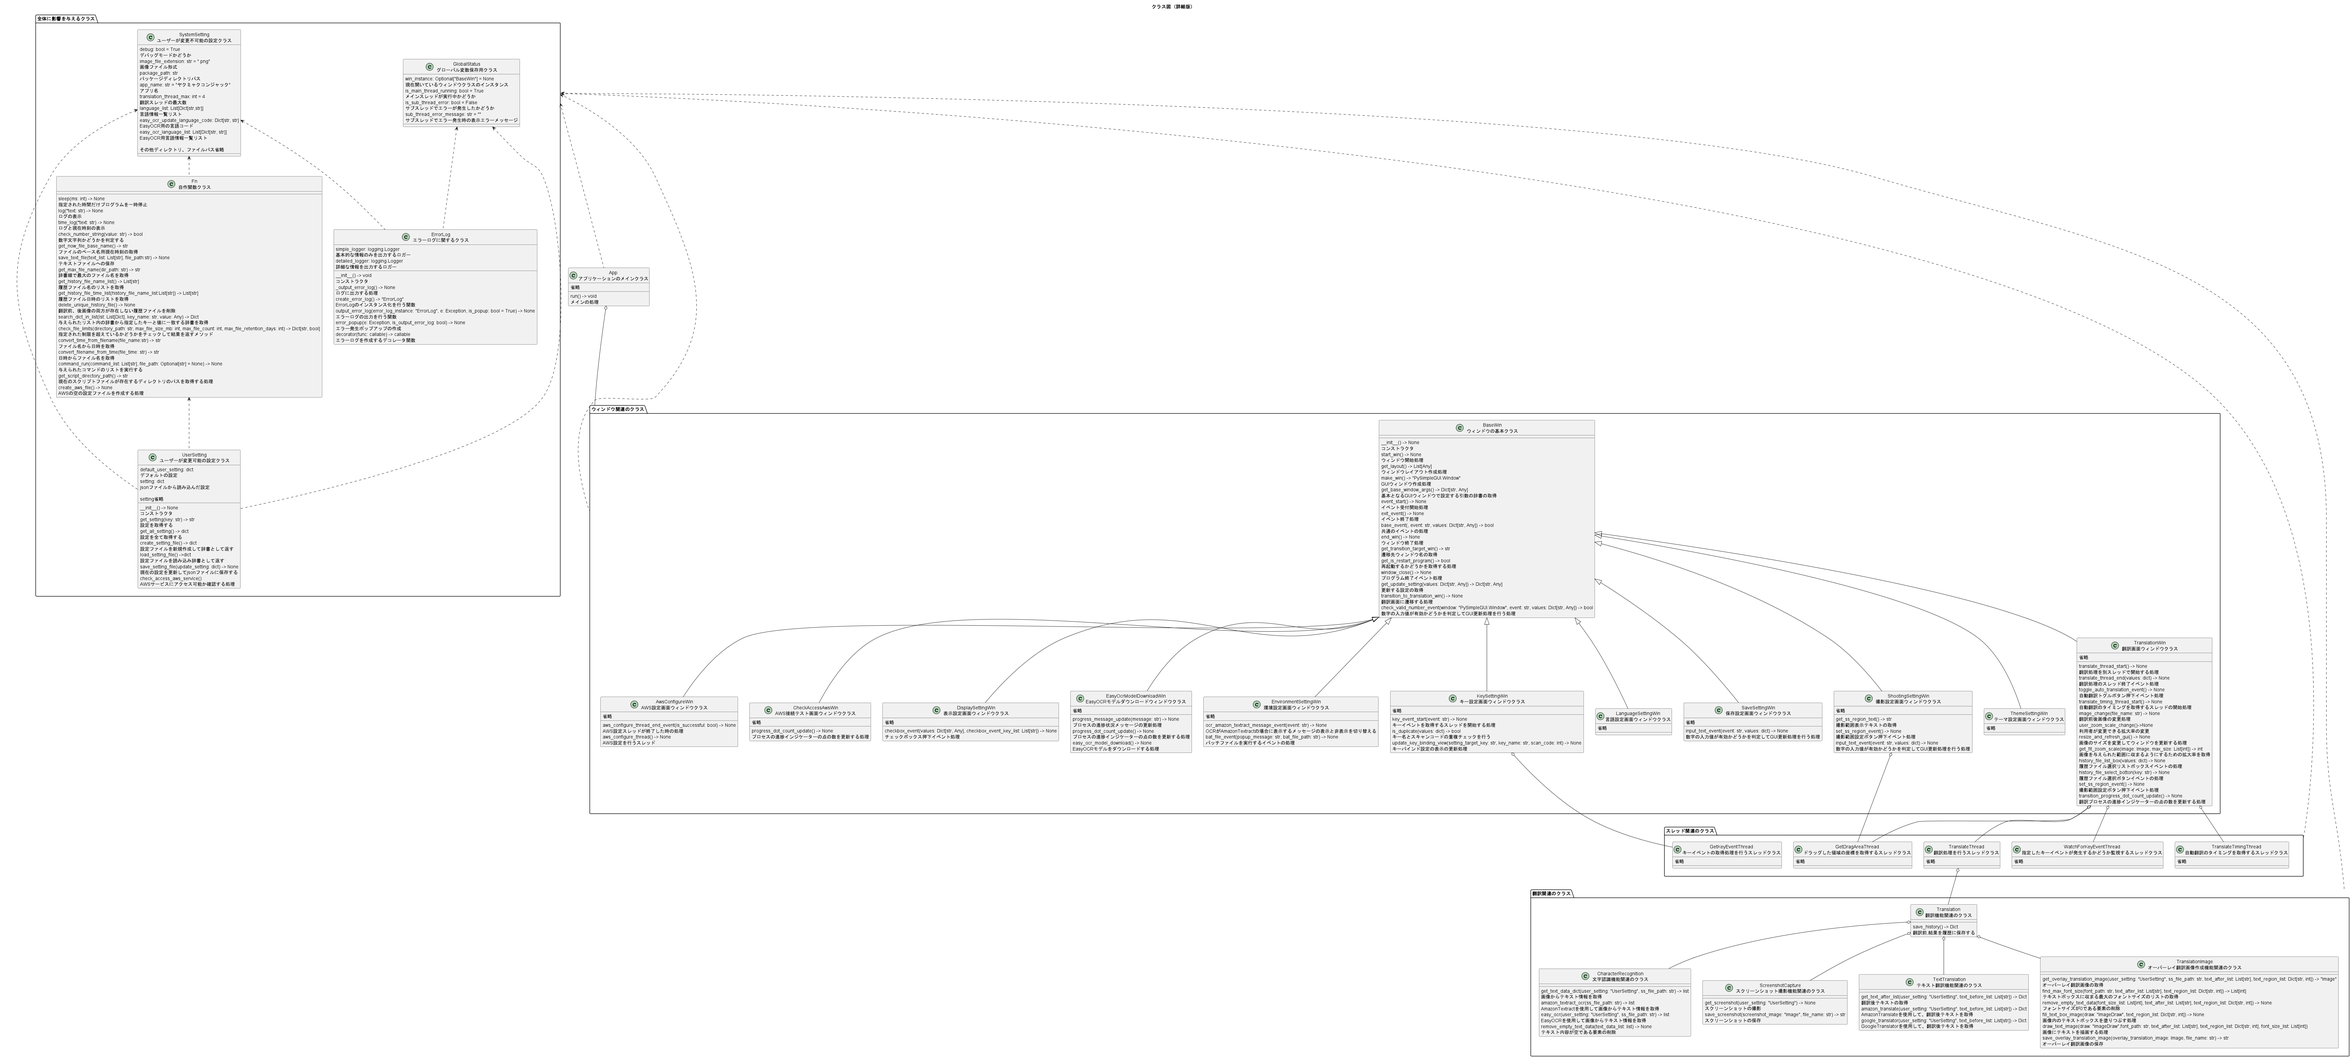
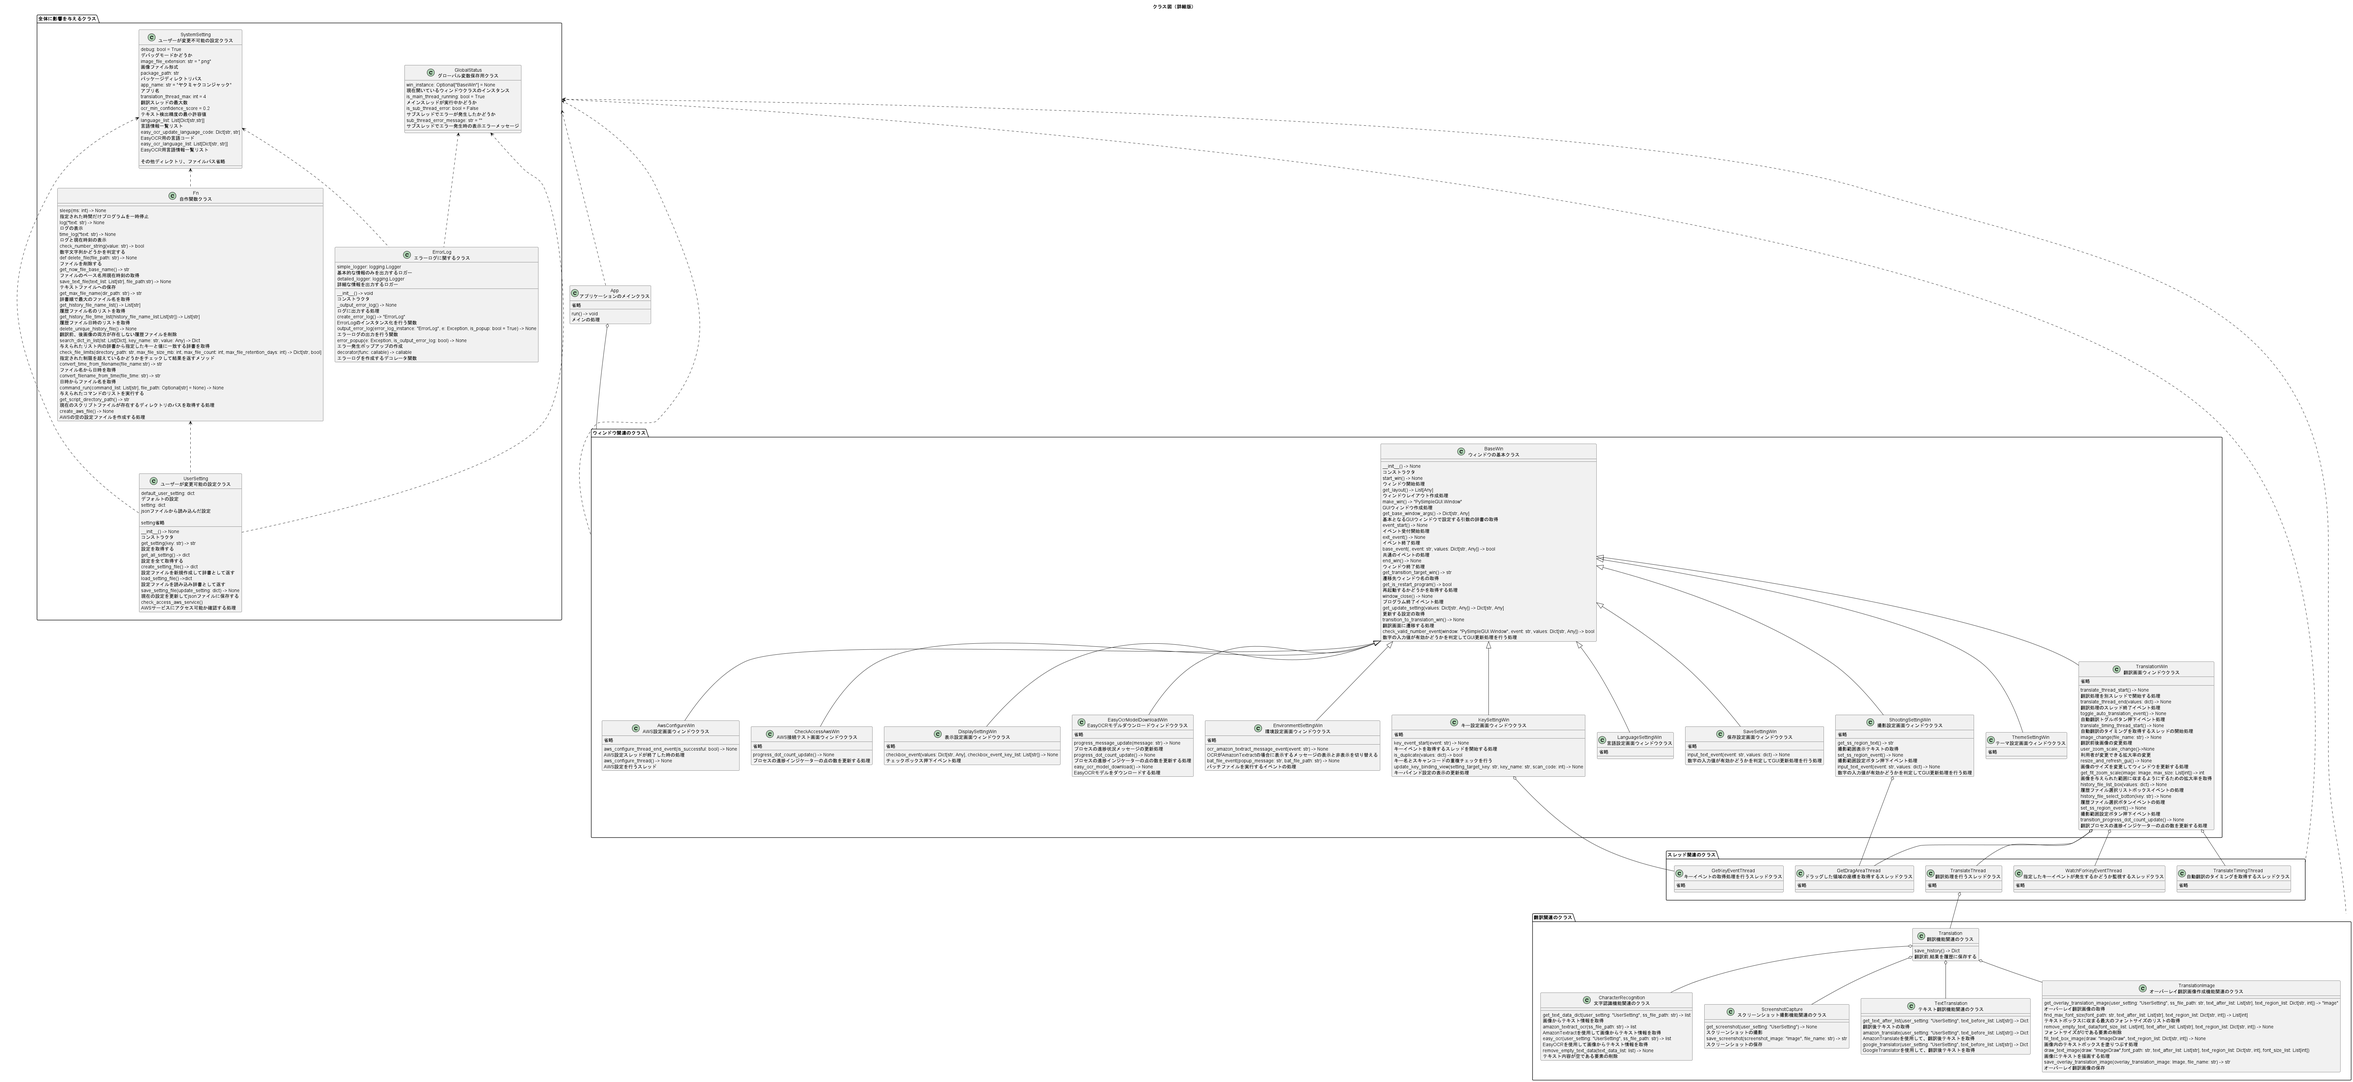
翻訳中に処理中の画像を一時保存するように変更

diff --git a/src/package/fn.py b/src/package/fn.py
@@ -63,6 +63,37 @@ class Fn:
         # 文字列が数字のみで構成され、かつ少なくとも1文字以上の数字を含むかどうかを返す
         return bool(re.match(r"^[0-9]+$", value))
 
+    def delete_file(file_path: str) -> None:
+        """ファイルを削除
+
+        Args:
+            file_path (str): ファイルパス
+        """
+        # ファイルが存在するかチェック
+        if os.path.exists(file_path):
+            try:
+                # ファイルを削除
+                os.remove(file_path)
+            # 別のプロセスがファイルを使用中なら
+            except PermissionError as e:
+                print(f"ファイル削除中にエラーが発生しました\n別のプロセスがファイルを使用中です。\n{e}")
+
+    def move_file(source_file_path: str, target_file_path: str) -> None:
+        """ファイルを移動
+
+        Args:
+            source_file_path (str): 移動元ファイルパス
+            target_file_path (str): 移動先ファイルパス
+        """
+        # 移動元ファイルが存在するかつ、移動先ディレクトリが存在するなら
+        if os.path.isfile(source_file_path) and os.path.isdir(os.path.dirname(target_file_path)):
+            try:
+                # ファイルを移動
+                os.replace(src=source_file_path, dst=target_file_path)
+            # 別のプロセスがファイルを使用中なら
+            except PermissionError as e:
+                print(f"ファイル移動中にエラーが発生しました\n別のプロセスがファイルを使用中です。\n{e}")
+
     def get_now_file_base_name() -> str:
         """ファイルのベース名用現在時刻の取得
         Returns:
@@ -187,29 +218,17 @@ class Fn:
 
         # 翻訳前画像のみのファイルの削除
         for before_file_name in before_only_file_name_set:
-            try:
-                # Fn.time_log(
-                #     f"翻訳前画像のみのファイルの削除 : {os.path.join(image_before_directory_path, before_file_name)}"
-                # )
-                os.remove(os.path.join(image_before_directory_path, before_file_name))
-
-            # 別のプロセスがファイルを使用中なら
-            except PermissionError as e:
-                print(f"ファイル削除中にエラーが発生しました: {e}")
-                raise
+            # ファイルパス
+            file_path = os.path.join(image_before_directory_path, before_file_name)
+            # ファイルの削除
+            Fn.delete_file(file_path)
 
         # 翻訳後画像のみのファイルの削除
         for after_file_name in after_only_file_name_set:
-            try:
-                # Fn.time_log(
-                #     f"翻訳後画像のみのファイルの削除 : {os.path.join(image_after_directory_path, after_file_name)}"
-                # )
-                os.remove(os.path.join(image_after_directory_path, after_file_name))
-
-            # 別のプロセスがファイルを使用中なら
-            except PermissionError as e:
-                print(f"ファイル削除中にエラーが発生しました: {e}")
-                raise
+            # ファイルパス
+            file_path = os.path.join(image_after_directory_path, after_file_name)
+            # ファイルの削除
+            Fn.delete_file(file_path)
 
         # ファイル名の形式が正しくないファイル名のリスト
         invalid_file_name_list = []
@@ -243,17 +262,27 @@ class Fn:
             ]:
                 # ファイルパス
                 file_path = os.path.join(dir_path, file_name)
-                # ファイルが存在するかチェック
-                if os.path.exists(file_path):
-                    try:
-                        # Fn.time_log(f"ファイル名の形式が正しくないファイルの削除 : {file_path}")
-                        # ファイルを削除
-                        os.remove(file_path)
+                # ファイルを削除する
+                Fn.delete_file(file_path)
 
-                    # 別のプロセスがファイルを使用中なら
-                    except PermissionError as e:
-                        print(f"ファイル削除中にエラーが発生しました: {e}")
-                        raise
+    def delete_tmp_history_file() -> None:
+        """翻訳処理中に一時保存する画像ファイルを削除"""
+        # 翻訳中一時保存画像保存先設定
+        image_tmp_directory_path = SystemSetting.image_tmp_directory_path  # ディレクトリパス
+
+        # 翻訳中一時保存画像ファイルのリスト
+        tmp_file_name_list = os.listdir(image_tmp_directory_path)
+
+        # .gitkeepが存在する場合、ファイル名のリストから削除する
+        if ".gitkeep" in tmp_file_name_list:
+            tmp_file_name_list.remove(".gitkeep")
+
+        # ファイルパスを取り出す
+        for file_name in tmp_file_name_list:
+            # ファイルパス
+            file_path = os.path.join(image_tmp_directory_path, file_name)
+            # ファイルを削除する
+            Fn.delete_file(file_path)
 
     def search_dict_in_list(lst: List[Dict], key_name: str, value: Any) -> Dict:
         """与えられたリスト内の辞書から指定したキーと値に一致する辞書を取得

diff --git a/src/package/window/translation_win.py b/src/package/window/translation_win.py
@@ -548,7 +548,7 @@ class TranslationWin(BaseWin):
 
         # 最後に翻訳処理を行った時間から、1秒以上経過していないなら
         # else:
-            # Fn.time_log("前回の翻訳からの経過時間が短すぎます。1秒以上の待機が必要です。")
+        # Fn.time_log("前回の翻訳からの経過時間が短すぎます。1秒以上の待機が必要です。")
 
     def translate_thread_end(self, values: dict) -> None:
         """翻訳処理のスレッド終了イベント処理
@@ -556,6 +556,14 @@ class TranslationWin(BaseWin):
         Args:
             values (dict): 各要素の値の辞書
         """
+        # 履歴ファイル名取得
+        file_name = values["-translate_thread_end-"]
+
+        # 一時保存ファイルを履歴ファイルに保存する処理
+        self.move_history_tmp_file(file_name)
+
+        # ファイル生成後に読み込むまでの時間の遅延
+        # Fn.sleep(50)
 
         # スレッド数のカウント
         self.thread_count -= 1
@@ -577,9 +585,6 @@ class TranslationWin(BaseWin):
 
             # スレッド数がオーバーするかどうか
             self.is_thread_over = False
-
-        # 履歴ファイル名取得
-        file_name = values["-translate_thread_end-"]
 
         # 履歴ファイル日時取得
         file_time = Fn.convert_time_from_filename(file_name)
@@ -612,13 +617,6 @@ class TranslationWin(BaseWin):
             if check_file_limit_dict[file_name]:
                 delete_file_list.append(file_name)
 
-        # # 削除するファイルを取得
-        # for file_name in delete_file_list:
-        #     # 翻訳前画像フォルダから削除
-        #     os.remove(os.path.join(SystemSetting.image_before_directory_path, file_name))
-        #     # 翻訳後画像フォルダから削除
-        #     os.remove(os.path.join(SystemSetting.image_after_directory_path, file_name))
-
         # 削除するファイルを取得
         for file_name in delete_file_list:
             # 画像ディレクトリパスで走査
@@ -628,17 +626,8 @@ class TranslationWin(BaseWin):
             ]:
                 # ファイルパス
                 file_path = os.path.join(dir_path, file_name)
-                # ファイルが存在するかチェック
-                if os.path.exists(file_path):
-                    try:
-                        # Fn.time_log(f"指定された制限を超えているなら : {file_path}")
-                        # ファイルを削除
-                        os.remove(file_path)
-
-                    # 別のプロセスがファイルを使用中なら
-                    except PermissionError as e:
-                        print(f"ファイル削除中にエラーが発生しました: {e}")
-                        raise
+                # ファイルの削除
+                Fn.delete_file(file_path)
 
         # 履歴ファイル名のリスト取得
         self.history_file_name_list = Fn.get_history_file_name_list()
@@ -656,6 +645,37 @@ class TranslationWin(BaseWin):
 
         # 翻訳前、後画像の変更処理
         self.image_change(max(self.history_file_name_list))
+
+    def move_history_tmp_file(self, file_name: str) -> bool:
+        """一時保存ファイルを履歴ファイルに保存する処理
+
+        Args:
+            file_name (str): ファイル名(撮影日時)
+
+        Returns:
+            bool: 処理に成功したかどうか
+        """
+        image_before_directory_path = SystemSetting.image_before_directory_path  # 翻訳前履歴画像フォルダパス
+        image_after_directory_path = SystemSetting.image_after_directory_path  # 翻訳後履歴画像フォルダパス
+        image_tmp_directory_path = SystemSetting.image_tmp_directory_path  # 翻訳中一時保存画像のディレクトリパス
+
+        # 翻訳前一時保存画像ファイルパス
+        tmp_before_file_path = os.path.join(image_tmp_directory_path, f"before_{file_name}")
+        # 翻訳後一時保存画像ファイルパス
+        tmp_after_file_path = os.path.join(image_tmp_directory_path, f"after_{file_name}")
+
+        # 一時保存画像ファイルが存在するなら
+        if os.path.isfile(tmp_before_file_path) and os.path.isfile(tmp_after_file_path):
+            # 翻訳前ファイル移動
+            Fn.move_file(
+                source_file_path=tmp_before_file_path,  # 移動元ファイルパス
+                target_file_path=os.path.join(image_before_directory_path, file_name),  # 移動先ファイルパス
+            )
+            # 翻訳後ファイル移動
+            Fn.move_file(
+                source_file_path=tmp_after_file_path,  # 移動元ファイルパス
+                target_file_path=os.path.join(image_after_directory_path, file_name),  # 移動先ファイルパス
+            )
 
     def toggle_auto_translation_event(self) -> None:
         """自動翻訳トグルボタン押下イベント処理"""

diff --git a/src/package/thread/translate_thread.py b/src/package/thread/translate_thread.py
@@ -20,11 +20,8 @@ class TranslateThread:
 
         Fn.time_log("翻訳開始")
 
-        # 翻訳前,結果を履歴に保存する処理
-        save_history_result = Translation.save_history()
-
-        # ファイル生成後に読み込むまでの時間の遅延
-        Fn.sleep(50)
+        # 翻訳前, 結果画像を一時保存する
+        save_history_result = Translation.save_tmp_history()
 
         # 保存ファイル名の取得
         file_name = save_history_result["file_name"]
@@ -39,23 +36,14 @@ class TranslateThread:
 
         # 保存処理でエラーが発生したもしくは、ウィンドウが閉じてあるなら
         else:
-            for dir_path in [
-                SystemSetting.image_before_directory_path,  # 翻訳前履歴画像フォルダパス
-                SystemSetting.image_after_directory_path,  # 翻訳後履歴画像フォルダパス
-            ]:
-                # ファイルパス
-                file_path = os.path.join(dir_path, file_name)
-                # ファイルが存在するかチェック
-                if os.path.exists(file_path):
-                    try:
-                        # Fn.time_log(f"保存処理でエラーが発生したもしくは、ウィンドウが閉じてあるなら : {file_path}")
-                        # ファイルを削除
-                        os.remove(file_path)
-
-                    # 別のプロセスがファイルを使用中なら
-                    except PermissionError as e:
-                        print(f"ファイル削除中にエラーが発生しました: {e}")
-                        raise
+            # 一時保存画像を削除する
+            directory_path = SystemSetting.image_tmp_directory_path  # 翻訳中一時保存画像のディレクトリパス
+            # 翻訳前の一時保存画像のパス
+            ss_file_path = os.path.join(directory_path, f"before_{file_name}")
+            Fn.delete_file(ss_file_path)  # 翻訳前の一時保存画像ファイルの削除
+            # 翻訳後の一時保存画像のパス
+            overlay_translation_image_path = os.path.join(directory_path, f"after_{file_name}")
+            Fn.delete_file(overlay_translation_image_path)  # 翻訳後の一時保存画像ファイルの削除
 
             # 保存処理でエラーが発生したなら
             if save_history_result["is_error"]:

diff --git a/src/package/system_setting.py b/src/package/system_setting.py
@@ -14,7 +14,7 @@ class SystemSetting:
     package_path: str = os.path.dirname(__file__)  # パッケージディレクトリパス
 
     # ソースコードを格納するディレクトリ
-    src_path: str = os.path.normpath(os.path.join(package_path, ".."))  # 上位レベル参照の正規化
+    src_path: str = os.path.dirname(package_path)  # 親ディレクトリを取得
 
     # 設定ファイル保存先設定
     setting_directory_path: str = os.path.join(src_path, "config")  # ディレクトリパス
@@ -26,12 +26,14 @@ class SystemSetting:
     image_before_directory_path: str = os.path.join(history_directory_path, "image_before")  # ディレクトリパス
     # 翻訳後画像保存先設定
     image_after_directory_path: str = os.path.join(history_directory_path, "image_after")  # ディレクトリパス
+    # 翻訳中一時保存画像保存先設定
+    image_tmp_directory_path: str = os.path.join(history_directory_path, "image_tmp")  # ディレクトリパス
 
     # デバッグ用ディレクトリパス
     debug_directory_path: str = os.path.join(src_path, "debug_history")
 
     # プロジェクトのルートディレクトリ
-    project_path: str = os.path.normpath(os.path.join(src_path, ".."))  # 上位レベル参照の正規化
+    project_path: str = os.path.dirname(src_path)  # 親ディレクトリを取得
 
     # エラーログのディレクトリパス
     error_log_directory_path: str = os.path.join(project_path, "log")  # ディレクトリパス
@@ -80,7 +82,7 @@ class SystemSetting:
     tool_reset_setting_path: str = os.path.join(tool_path, "reset_setting.bat")
 
     # 仮想環境のルートディレクトリ
-    venv_path: str = os.path.normpath(os.path.join(project_path, ".."))  # 上位レベル参照の正規化
+    venv_path: str = os.path.dirname(project_path)  # 親ディレクトリを取得
 
     # AWSの認証情報や設定ファイルのディレクトリパス
     aws_setting_directory_path: str = os.path.join(venv_path, ".aws")

diff --git a/src/package/translation/translation_image.py b/src/package/translation/translation_image.py
@@ -208,15 +208,15 @@ class TranslationImage:
                 )
 
     def save_overlay_translation_image(overlay_translation_image: Image, file_name: str) -> str:
-        """オーバーレイ翻訳画像の保存
+        """オーバーレイ翻訳画像の一時保存
         Args:
             overlay_translation_image(Image): オーバーレイ翻訳画像
             file_name(str): ファイル名(撮影日時)
         Returns:
             overlay_translation_image_path(str): オーバーレイ翻訳画像のファイルパス
         """
-        directory_path = SystemSetting.image_after_directory_path  # 翻訳後画像のディレクトリパス
-        overlay_translation_image_path = os.path.join(directory_path, file_name)  # ファイルパス(絶対参照)
+        directory_path = SystemSetting.image_tmp_directory_path  # 翻訳中一時保存画像のディレクトリパ
+        overlay_translation_image_path = os.path.join(directory_path, f"after_{file_name}")  # ファイルパス(絶対参照)
 
         overlay_translation_image.save(overlay_translation_image_path)  # 翻訳後画像保存
 

diff --git a/src/package/translation/screenshot_capture.py b/src/package/translation/screenshot_capture.py
@@ -30,15 +30,15 @@ class ScreenshotCapture:
         return screenshot_image  # スクショ画像
 
     def save_screenshot(screenshot_image: "Image", file_name: str) -> str:
-        """スクリーンショットの保存
+        """スクリーンショット画像の一時保存
         Args:
             screenshot_image(Image): スクショ画像
             file_name(str): ファイル名(撮影日時)
         Returns:
             ss_file_path(str): スクショ画像のファイルパス
         """
-        directory_path = SystemSetting.image_before_directory_path  # 翻訳前画像のディレクトリパス
-        ss_file_path = os.path.join(directory_path, file_name)  # ファイルパス(絶対参照)
+        directory_path = SystemSetting.image_tmp_directory_path  # 翻訳中一時保存画像のディレクトリパス
+        ss_file_path = os.path.join(directory_path, f"before_{file_name}")  # ファイルパス(絶対参照)
         screenshot_image.save(ss_file_path)  # 翻訳前画像保存
 
         return ss_file_path  # 翻訳前画像ファイルパス

diff --git a/src/app.py b/src/app.py
@@ -68,6 +68,9 @@ class App:
         # 翻訳前、後画像の両方が存在しない履歴ファイルを削除
         Fn.delete_unique_history_file()
 
+        # 翻訳処理中に一時保存する画像ファイルを削除
+        Fn.delete_tmp_history_file()
+
         # AWS接続テストを行うなら
         if self.user_setting.get_setting("is_aws_access_check"):
             # AWSサービスにアクセス可能か確認する処理
